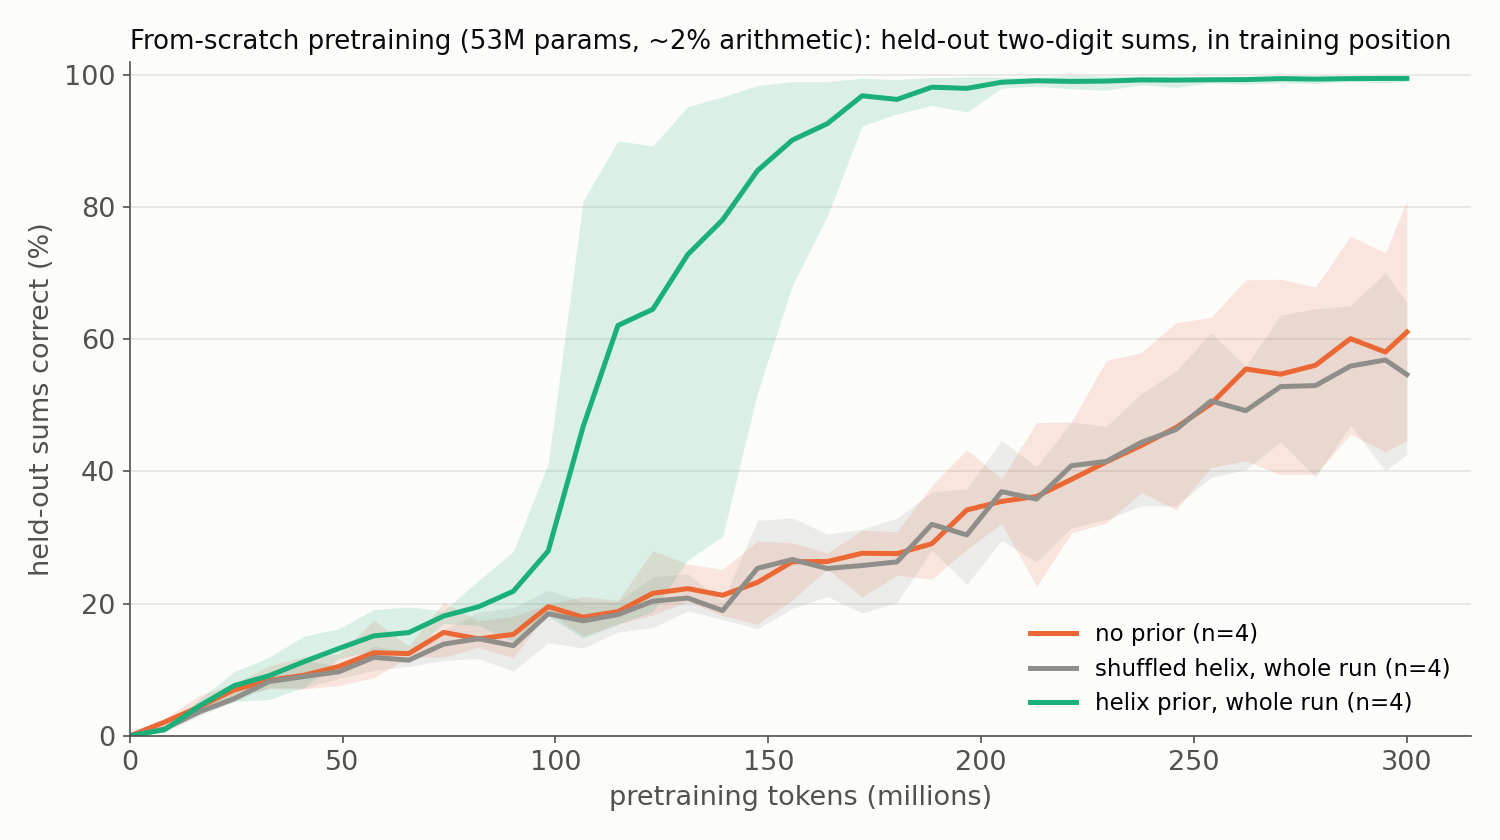
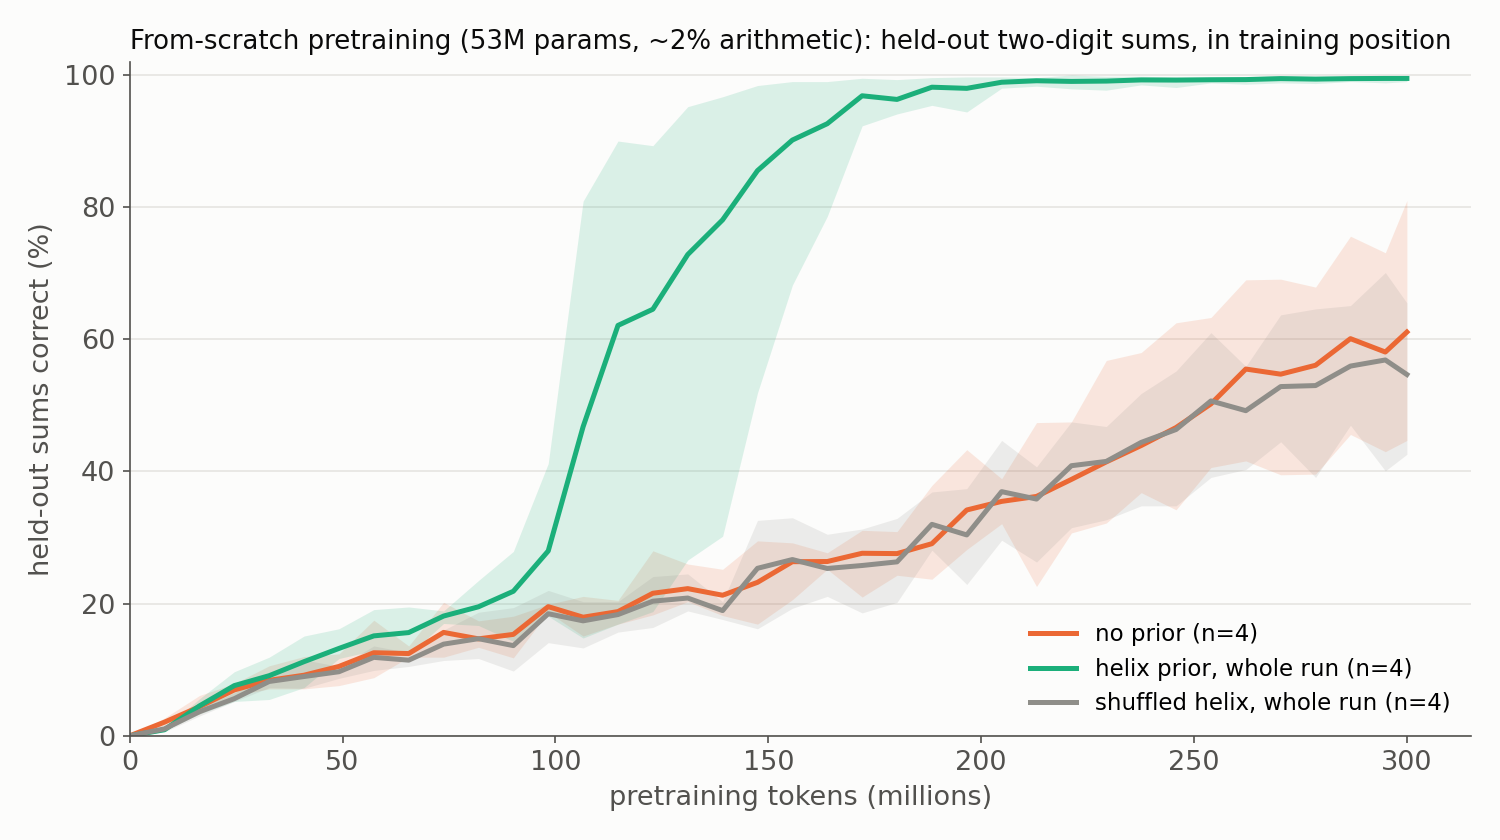
F65/F66 caveat from the adversarial audit: learning-phase speed = learning the trained table (+ commutative recall), not yet generalisation; audit spec
Claude-Session: https://claude.ai/code/session_014Mi8fcANPfGJa2s2ozpGrz

Changed region(s): [[0.6747, 0.7738, 0.9813, 0.8667], [0.092, 0.8667, 0.1227, 0.8976]]

diff --git a/report/AUDIT_pretraining.md b/report/AUDIT_pretraining.md
@@ -1,0 +1,63 @@
+# AUDIT: pretraining with the in-context eval (F65) and the window start-time sweep (ptstart)
+
+Written 2026-10-13 before submitting ptstart. Code: llmadd-burst tools/pretrain_helix.py.
+
+## Metric: test_ctx (held-out addition accuracy in training position)
+- Single definition: fraction of the 1000 held-out pairs (pairs[:1000] of a fixed permutation of all (a, b), a, b in 10..99)
+  for which argmax of the logits at the last position equals the first token of str(a + b). Implementation:
+  pretrain_helix.py evaluate() over evalsets["test_ctx"]. (The sum 20..198 is one token in the OLMo-2 tokenizer.)
+- Measures: whether the model produces the right sum for a pair it was never trained on, in the same place as
+  training puts arithmetic. High = generalises (or recalls the swapped pair, see below); low = does not.
+- Token position: logits at the last token of "<held-out FineWeb chunk>Q: a + b = " (the trailing " " token); in training
+  the same " " token sits at index seq-3 and predicts the answer at seq-2. Eval sequence length = seq - 2, so the
+  scored position has the same absolute index (seq-3) as in training.
+- Input format and context:
+  | dimension | training | eval (test_ctx) | same? |
+  | position of the scored token | seq-3 | seq-3 | yes |
+  | what precedes the prompt | 1 line: FineWeb text; 4 lines: line 1 after text, lines 2-4 after other arithmetic lines (with answers) | FineWeb text (val.bin) | partly: matches line 1's context and the last line's position; no in-context solved examples before it |
+  | template | 4 formats at random | format 0 ("Q: a + b = "); test_plus_ctx = format 1 | yes (format 0 is one of the 4) |
+  | operand range | 10..99 | 10..99 | yes |
+  | data split | trainp = pairs[1000:] | pairs[:1000] | ordered pairs disjoint; BUT 870/1000 test pairs have the swapped pair (b, a) in trainp -> see strict subset |
+  | text | train.bin (first 400M tokens) | val.bin (next 2M tokens) | disjoint |
+  | model state | train(), bf16 autocast | eval(), bf16 autocast | dropout none in this config |
+- Expected magnitude: chance ~ 1/180 (0.6%); step 0 = 0; a model that has learned addition in training position ~ 100%
+  (train_ctx and in-batch EMA should agree within ~5 points once learned).
+- Controls: positive = train_ctx (training pairs, same position) and in-batch EMA; negative = step 0 / random init;
+  shuffled-helix arm = wrong-geometry control; upper bound = train_ctx at the end ~ 100%.
+- Known caveat (added by this audit): commutativity. 87% of "held-out" pairs have their swap in training, so test_ctx mixes
+  generalisation with recall of a + b from b + a. Report test_ctx_strict = the 130 pairs whose swap is also unseen
+  (118 with a != b, 12 with a == b) next to it.
+
+## Metric: tokens to 50% / 90% (t50, t90)
+- First eval step at which test_ctx >= 0.5 / 0.9, in tokens (step x bs x seq); evals every 250 steps (8.2M tokens) ->
+  resolution 8.2M tokens. Reported as the median over seeds; ratio = none median / arm median.
+
+## ptstart sweep (what is varied)
+- helix_window with windows (start, end) = (0, .4), (.05, .4), (.2, .4) [vary start], (.1, .2), (.1, 1.0) [vary end];
+  (.1, .4) and none are in pt7c (seeds 0-3); replication seeds 4, 5 of none and (.1, .4) added (check iv).
+- Everything else identical to pt7c: 4 arithmetic lines, 3e8 tokens, lam 5, eval_every 250, --ctx_eval --save_model.
+
+## Audit results so far (2026-10-13)
+- ii (asserts): added to arithmetic_sets(): ordered test / train pairs disjoint; every training line ends "<sum> \n" with
+  the sum one token; numbers 0..999 are single tokens; every eval prompt ends with the same token that precedes the
+  answer in training; *_ctx sequences have length seq-2. Operand / answer indices of every training line are asserted
+  against the token ids (lpos).
+- vii (decoded inputs side by side): inputs_sample.txt / inputs_sample_v2.txt. Scored index 509 in training and in every
+  *_ctx set. Difference noted: with 4 lines, the in-batch EMA is measured on the last line, which follows 3 solved
+  lines (few-shot-like); test_ctx follows text only (= the condition of a row's first line). ema_first_line is now
+  logged and drives helix_gate.
+- i (two routes): offline re-evaluation of the saved pt7c weights (tools/pt_eval_saved.py, job 19688817) reproduces the
+  logged final test_ctx exactly (e.g. none s0 99.3 / 99.3, window s3 99.9 / 99.9).
+- vi #2 (memorisation vs generalisation): strict subset (130 pairs unseen in both orders) at the end of pt7c:
+  window 100 / 100 / 100 / 100, helix 100 / 99.2 / 98.5 / 100, none 96.9 / 96.9 / 96.2 / 95.4, shuffled 95.4 / 96.2 / 94.6 / 96.2.
+  So none's test_ctx (~99.3) is inflated by ~3 points by commutative recall; the helix arms are not. The speed result
+  (t50 / t90) is on test_ctx; strict_ctx is logged at every eval in the new runs, so speed on strict can be checked.
+- iii: negative control step 0 = 0; upper bound train_ctx ~ 100 at the end.
+
+## New arms / metrics (ptfinal)
+- --geo_site ctx: CKA on operand tokens inside the training lines (marked in inputs_sample_v2.txt), target = helix
+  features of the operand values in the batch (with repeats; the Gram is centred over the batch).
+- --geo_site ans: CKA on the token before the answer (the one that predicts it), target = helix of the sum (20..198).
+- helix_gate: prior on while ema_first_line < gate_thr.
+- Harder end-point tests, all GENERALISATION (never trained): add3 (operands 100..499), add1 (second operand 1..9),
+  sub (a - b), test_f2 / test_f3 (other training formats, held-out pairs). Reported as such, not as "accuracy".

diff --git a/report/FINDINGS.md b/report/FINDINGS.md
@@ -1559,6 +1559,17 @@
 - none 的 test_ctx（约 99.3%）里有约 3 个百分点来自交换律回忆；helix 各组没有这个落差。所以即使在 7% 算术下，先验也提高了对真正未见题对的最终泛化（约 +3.6 个百分点）。
 - 之后的新运行（ptstart、ptfinal）在每个评测点都记录 strict_ctx，可以检验速度优势在 strict 子集上是否同样成立。
 
+### ⚠ F65 / F66 限定（对抗审查，2026-10-13）：学习阶段的"更快"目前只能说成"更快学会训练题表"，还不能说成"泛化更快"
+
+- 全新审查子 agent 指出、我按数据核实：在学习过程中（train_ctx 介于 0.25 和 0.85 的评测点），各组的 test_ctx / train_ctx 都约等于 0.87（pt7c：none 0.874、helix 0.886、窗口 0.880、打乱 0.849；pt2c 0.80–0.81）。0.87 正好是"测试题中交换题在训练里"的比例。也就是说，学习阶段的 test_ctx 几乎完全可以由"记住训练题 + 交换律回忆"解释，真正没见过的题此时大概还接近 0。
+- 所以 F65 的 t50 / t90（快 2.4 / 4.4 倍）测到的是"学会训练题表（含交换）的速度"；对真正未见题的泛化，目前只有终点证据（strict 子集：窗口 100%，none 约 96.4%）。F66 的终点差距（99.5% 对 61%）同理，strict 子集的离线重评在排队（job 19691007）。
+- 修正：新代码加了 `--split unordered`（两种顺序一起留出：约 985 道真正未见的题，另有 300 道"只训练了另一种顺序"的交换探针），并在每个评测点记录：
+  - 语境内操作数位置的 CKA（审查发现前缀位置的 CKA 高估了全程组在真正做加法处的几何：全程 helix 前缀 1.0、语境内 L4 只有 0.64，窗口组 0.90）；
+  - 和 < 100 与 ≥ 100 分开的准确率（tied embedding 下，前者的输出行就是操作数的嵌入行）；
+  - "前面有 3 道已解题"条件下的留出题准确率。
+  新批次 ptu（commit 2becdba，88 个任务）已写好；它还加了"打乱 helix 窗口"这个时机对照（排除"第 10% 突然加大辅助梯度、经梯度裁剪压低 LM 步长"的解释），并去掉了按构造测不出差别的终点扫描。
+- 论文措辞在 ptu 出结果前：写"helix 先验让模型更快学会加法（训练表达到同样水平所需 token 少 2–4 倍），并在终点对真正未见题对的泛化更好"，不写"泛化快 4.4 倍"。
+
 ## [2026-10-13] F66 ⭐ 从零预训练、算术只占约 2%：helix 先验把最终留出题准确率从约 61% 提到 99.5%（数据少时先验提高的是最终表现，不只是速度）
 
 - 来源：Torch pt2c（results/pt2c-torch；代码 commit cdd2775，与 pt7c 相同，`--ctx_eval --save_model`）。每条序列附加 1 道两位数加法（约 2% 的 token），其余设置同 F65（5300 万参数，3 亿 token，λ = 5，先验全程施加），4 seed。图：`report/figures/pt2c_curves.png`。评测为训练位置（test_ctx，F63 修正后的方式）。
